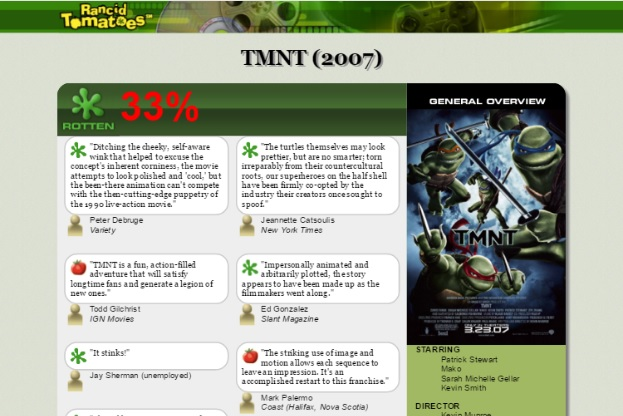
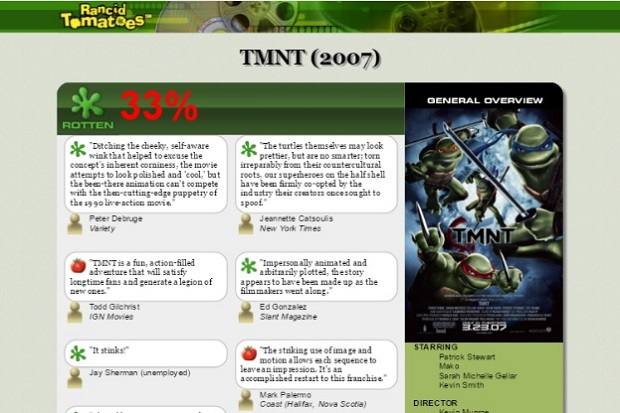
Changed from bootstrap navbar to Materialize
I was having issues with the bootstrap version, also it looks kind of
old. Also updated picture widths and some text sizes

diff --git a/index.html b/index.html
@@ -19,9 +19,11 @@
         <link rel="shortcut icon" href="http://iconpopanswers.com/wp-content/uploads/2013/04/iconpopmania-184.jpg" />
         <script type="text/javascript" src="https://code.jquery.com/jquery-2.1.1.min.js"></script>  
         <script type="text/javascript" src="js/materialize.min.js"></script>
+
     <script>
     $(document).ready(function(){
       $('.parallax').parallax();
+      $(".button-collapse").sideNav();
     });
 
     $(document).ready(function(){
@@ -36,6 +38,8 @@
     Materialize.scrollFire(options);
      });
       </script>
+
+      <script>window.jQuery || document.write('<script src="js/vendor/jquery-1.12.0.min.js"><\/script>')</script>
     </head>
     <body>
 
@@ -61,31 +65,27 @@
         <![endif]-->
 
         <!-- Add your site or application content here -->
-      <nav class="navbar navbar-fixed-top">
-      <div class="container-fluid">
-        <!-- Brand and toggle get grouped for better mobile display -->
-        <div class="navbar-header">
-          <button type="button" class="navbar-toggle collapsed" data-toggle="collapse" data-target="#bs-example-navbar-collapse-1" aria-expanded="false">
-            <span class="sr-only">Toggle navigation</span>
-            <span class="icon-bar"></span>
-            <span class="icon-bar"></span>
-            <span class="icon-bar"></span>
-          </button>
-          <a class="navbar-brand" href="index.html">Temporary Portfolio</a>
-        </div>
 
-        <!-- Collect the nav links, forms, and other content for toggling -->
-        <div class="collapse navbar-collapse">
-          <ul class="nav navbar-nav navbar-right">
+  <nav>
+    <div class="nav-wrapper">
+      <a href="#!" class="brand-logo">Temporary Portfolio</a>
+      <a href="#" data-activates="mobile-demo" class="button-collapse"><i class="material-icons">menu</i></a>
+      <ul class="right hide-on-med-and-down">
             <li><a class="waves-effect waves-light" href="#" onclick="displayCV();">Resume</a></li>
             <li><a class="waves-effect waves-light" href="index.html">Home</a></li>
             <li><a class="waves-effect waves-light" href="about.html">About Me</a></li>
             <li><a class="waves-effect waves-light" href="blog.html">Blog</a></li>
+      </ul>
+      <ul class="side-nav" id="mobile-demo">
+            <li><a class="waves-effect waves-light" href="#" onclick="displayCV();">Resume</a></li>
+            <li><a class="waves-effect waves-light" href="index.html">Home</a></li>
+            <li><a class="waves-effect waves-light" href="about.html">About Me</a></li>
+            <li><a class="waves-effect waves-light" href="blog.html">Blog</a></li>
+      </ul>
+    </div>
+  </nav>
 
-          </ul>
-        </div><!-- /.navbar-collapse -->
-      </div><!-- /.container-fluid -->
-    </nav>
+
     
     <div class="container-fluid text-center" id="fadeInJumbo" style="opacity: 0">
       <div class="jumbotron">
@@ -214,7 +214,7 @@
 
 
 
-        <script>window.jQuery || document.write('<script src="js/vendor/jquery-1.12.0.min.js"><\/script>')</script>
+        
 
         <script src="bower_components/bootstrap/dist/js/bootstrap.min.js"></script>
 

diff --git a/css/style.css b/css/style.css
@@ -61,24 +61,31 @@ p {
 }
 
 .navbar-brand,.navbar-nav > li > a{
-	color:#23527c;
-	font-weight:bold;
-	font-size:20pt;
-}
-.navbar-brand:hover,.navbar-nav > li > a:hover{
+		color:#23527c;
+		font-weight:bold;
+		font-size:20pt;
+	}
+	.brand-logo:{
+		color:#f5f5f5;
+	}
+.brand-logo:hover{
+	text-decoration: none;
 	color:#f5f5f5;
-	font-weight:bold;
 	background:none;
 }
 
-.navbar{
+.nav-wrapper{
 	border-radius:0;
 	background-color:#333;
 }
 
 
-.navbar-toggle .icon-bar{
+.nav-wrapper #mobile-demo{
 	background:#f5f5f5;
+}
+.nav-wrapper>ul>li>a:hover{
+	color:#5bc0de;
+	text-decoration: none;
 }
 
 @media (max-width: 768px){
@@ -155,7 +162,7 @@ p {
 		font-size:16px;
 	}
 		.text{
-	font-size:1.5em;
+	font-size:0.75em;
 	}
 
 	.parallax img{
@@ -165,6 +172,10 @@ p {
 		z-index: 9999;
 		margin-top:-100px;
 	}
+
+    .navbar-pills li{
+    	font-size:6pt;
+    }
 
 }
 
@@ -176,6 +187,9 @@ p {
 .nav-pills{
 	display:flex;
 	justify-content: center;
+	
+}
+.nav-pills li{
 	font-size:16pt;
 }
 .nav-pills > li.active > a, .nav-pills>li.active>a:hover,.nav-pills>li.active>a:focus{
